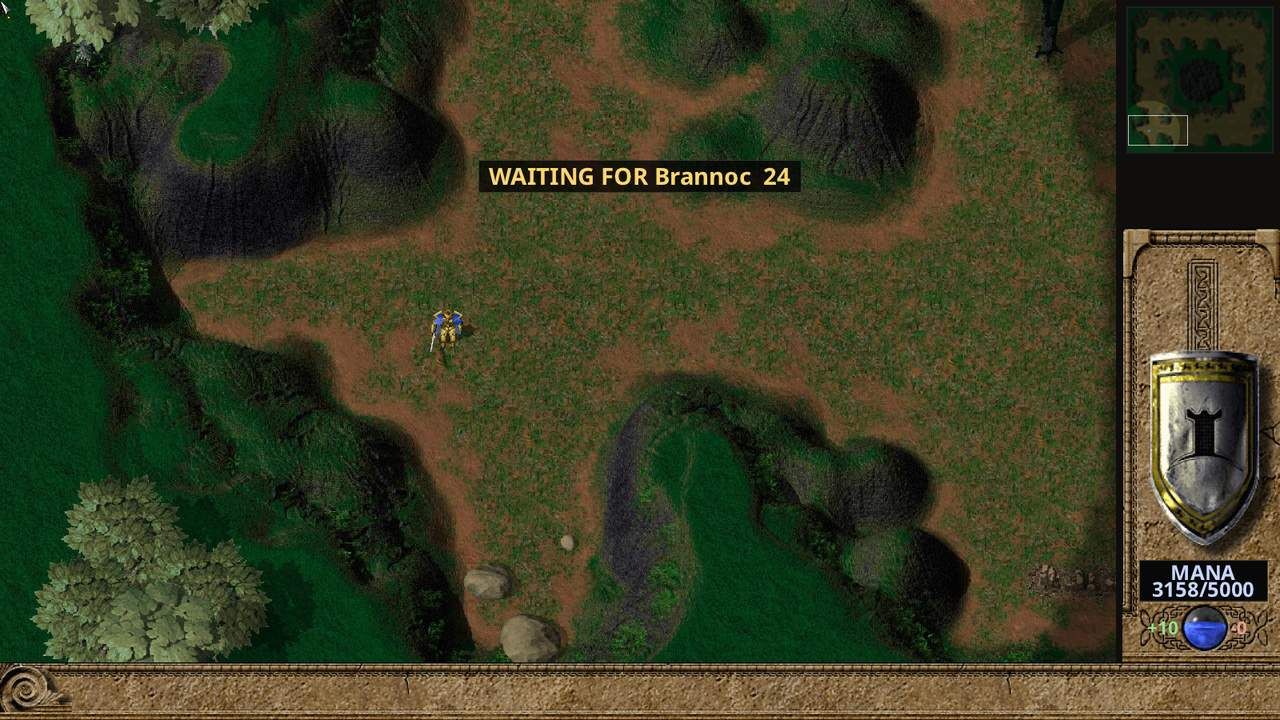
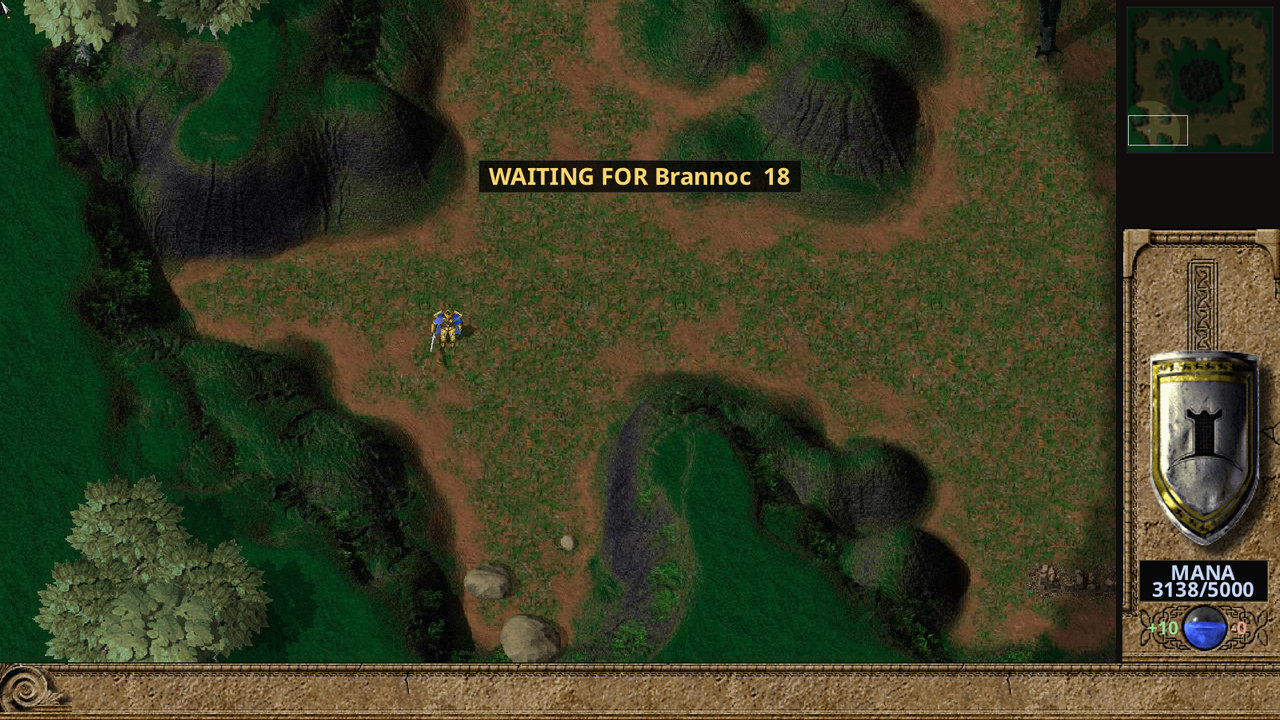
Docs: 0.8.10 screenshots (title, streaming panel, disconnect wait)
title.jpg shows VERSION 0.8.10; streaming.jpg shows the new SAVE A LOCAL
COPY row (off, no key); guide/disconnect-wait.jpg is retaken at the
default 8 s stall threshold after the last-contact budget rule (banner
reads 18, about 4 s after it appeared at 22), with the guide caption and
alt text to match. README alt text and gallery footnote name 0.8.10;
docs/img/README.md records the retakes and adds the disconnect-wait row.

Claude-Session: https://claude.ai/code/session_01NfQnyMZiQLqDRRnw4HG4by

diff --git a/docs/img/README.md b/docs/img/README.md
@@ -1,18 +1,27 @@
 # README and user-guide screenshots
 
-Refreshed on 2026-10-21 for **0.8.9**. 0.8.9 changed the create screen's option
+Refreshed on 2026-10-22 for **0.8.10**. 0.8.10 added the **SAVE A LOCAL COPY**
+row to the YouTube Streaming panel and changed the disconnect wait (each seat has
+one 30 s budget per game, counted from the player's last contact, so a first stop
+shows 22 when the banner appears). The 0.8.10 build (version set to 0.8.10
+locally, ahead of the release commit; no capture patch was needed) retook
+`title.jpg` (VERSION 0.8.10), `streaming.jpg` and `guide/disconnect-wait.jpg`.
+No other picture shows what 0.8.10 changed: the campaign pictures show chapter 1,
+whose human player was already Player1, and the Cartographer Test Map fix is in
+the macOS app bundle only. Every other picture keeps the release named below.
+
+0.8.9 changed the create screen's option
 column (one button width and one label size), the room's rules (MAP SCENARIO is
 a normal rules line; GAME MODS VERIFIED shows only when game packs are in play)
 and the in-game chat box (always above the build row and its TRAINING or status
 line), and added Shift-drag build lines with a wheel-set gap. The 0.8.9 build
 (version set to 0.8.9 locally, ahead of the release commit) retook every picture
-that shows them: `title.jpg` (VERSION 0.8.9), `lobby.jpg`, `lobby-scenario.jpg`,
+that shows them: `title.jpg` (since retaken for 0.8.10), `lobby.jpg`, `lobby-scenario.jpg`,
 `room.jpg`, `cartographer/test-lobby.jpg`, `guide/random-map-lobby.jpg`,
 `guide/room-mods-power-codes.jpg` and `guide/chat-box.jpg`, and added
 `guide/build-line.jpg`. `diplomacy.jpg`, `guide/options-interface.jpg` and
 `guide/options-graphics.jpg` were re-rendered and compared with their 0.8.8
-captures: nothing they show changed, so they stay the 0.8.8 files. Every other
-picture keeps the release named below.
+captures: nothing they show changed, so they stay the 0.8.8 files.
 
 Every image below is actual engine output from a release-preparation build
 (Debug with `-O2`, OpenGL renderer) and was inspected by eye. 0.8.8 draws all plain interface text in Noto Sans Bold
@@ -100,7 +109,7 @@ simulation code. Every scene runs the normal game rules, AI and renderer.
 
 | Image | Scene |
 | --- | --- |
-| `title.jpg` | Title menu showing version 0.8.9 (0.8.9 build), 1920 × 1080 window cropped to the 1440 × 1080 artwork |
+| `title.jpg` | Title menu showing version 0.8.10 (0.8.10 build), 1920 × 1080 window cropped to the 1440 × 1080 artwork |
 | `battle.jpg` | **Benchmark** run (Settings → Benchmark, Absurd intensity) on Ulasem Arena, 55 game seconds in. Eight server AIs fight, all five sides. The camera, at 1.3× zoom, shows Aramon (magenta) and Taros (yellow) armies, with Black Dragons, clashing at a sandy arena; damaged units of every side show health bars. A real feature with no fixture; spectator view, so no fog. Rendered by the 0.8.8 build |
 | `dragons.jpg` | **Development scene.** Five server AIs, one per side, from a stress-test start (300-unit cap) with gods on, 90 game seconds in. Creon Neo Dragons breathe fire on an Aramon siege column; health bars show for every side. Spectator view, 1.4× zoom. Rendered by the 0.8.8 build |
 | `flyers.jpg` | **Development scene, spawned.** Legion pathfinding, 22 s after one move order east-south-east. A 44-unit Zhon formation: Trolls, Stone Giants and Jungle Orcs, with Gryphons, Harpies and Drakes holding rows of stations over the front of the ground (new in 0.8.0, protocol 254; before, over its middle). `1F`, solid green, marks members of formation 1. Nothing is selected, so the information bar is empty (0.8.1). Fog off, 1.45× zoom. Rendered by the 0.8.8 build (protocol 288) |
@@ -112,7 +121,7 @@ simulation code. Every scene runs the normal game rules, AI and renderer.
 | `room.jpg` | Single-player room on Ulasem Arena with three Normal AIs (Taros, Veruna, Zhon) added by clicks, Crusades and Double Sight on, Legion pathfinding and both example cosmetic packs ticked (empty folders in the scratch install); under the COSMETIC MODS heading ALWAYS ON: click.hpi, then the pack names at the column's text size, the GAME MODS list below (no game pack ticked, so no GAME MODS VERIFIED line, new in 0.8.9). The open rows 5 to 8 each have a **MOVE HERE** button. The match rules end with MAP SCENARIO: OFF at the others' size (0.8.9). The map at the top of the right column marks starts 1 to 4 in the colours of the four seated players. The AI names are the lobby's own random picks. Rendered by the 0.8.9 build, 1600 × 1000; the CREATE screen's toggles, slot types, sides and pack boxes were clicked with `TAK_SHOT_CLICKS`, then the pointer moved off the panel |
 | `campaign.jpg` | Book of Darien campaign picker with a fresh profile, chapter 1. The CHAPTER heading and numeral are retail lettering in both UI fonts; the chapter title and the always-on mods note (click.hpi, in dark ink on the parchment) are in the UI font. Rendered by the 0.8.8 build, 1600 × 1000, with `TAK_SHOT_CAMPAIGN=0` |
 | `crusades.jpg` | Imported Darien Crusades definition (`crusades_import` from the retail `Darien.def`) on an authenticated local server, account *Gallery*; Torcairn selected in the territory list after joining Honor, so the territory panel lists its details and the map marks it. No authored battle maps or ownership. Rendered by the 0.8.8 build, 1600 × 1000 |
-| `streaming.jpg` | Streaming setup with no key or broadcast, showing the **Remember Key** row (off; the Secret Service is available). Rendered by the 0.8.8 build at 1600 × 1000, with the debug `TAK_CREDSTORE=test` store so no real key could appear |
+| `streaming.jpg` | Streaming setup with no key or broadcast, showing the **Remember Key** row (off; the Secret Service is available) and the **Save a Local Copy** row (off, the default; MP4 IN THE VIDEOS FOLDER), new in 0.8.10. Rendered by the 0.8.10 build at 1600 × 1000, with the debug `TAK_CREDSTORE=test` store so no real key could appear |
 | `diplomacy.jpg` | Built-in input-test fixture (the debug `TAK_DIPLOMACY_TEST` harness, `--testbuild`) after gifting, 1600 × 1000, in a profile with voice chat on. The VOICE column ticks every other player (your own box is shown, greyed); VOLUME has sliders for the two other humans, left by the fixture at 50% (ALLY) and 25% (DEFEATED), and none for the computer player (ENEMY). Elsin stays selected, so the bar shows her portrait, name and health and mana only. Rendered by the 0.8.8 build |
 | `results.jpg` | Built-in five-player **sample statistics** (`TAK_SHOT_RESULT`), not a finished match. Rendered by the 0.8.8 build |
 | `cartographer.png` | Cartographer Units tab on Ulasem Arena, from the 0.8.3 build: the toolbar has five tools (BLOCKED is new) and the browser a scrollbar. A fresh editor profile, `--shot --shot-tool units`, 30% zoom |
@@ -145,6 +154,7 @@ replace them. The unchanged views contain no version text.
 | `options-interface.jpg` | New in 0.8.8. Options screen in a 1600 × 1100 window scrolled to the Interface section, cropped to it: UI FONT MODERN, F4 SCORECARD SCALE and UI SCALE 100%, HEALTH BARS DAMAGED, STATS PANEL ON, BUILD MENU CENTER, BUILD MENU SCALE 100%, CHAT POSITION CENTERED and CHAT SCALE 100%; a fresh profile, all defaults |
 | `room-mods-power-codes.jpg` | Recaptured by the 0.8.9 build. Single-player room on Ulasem Arena, 1600 × 1000: POWER CODES clicked on in the create screen, two Normal AIs; under the COSMETIC MODS heading ALWAYS ON: click.hpi, then the packs at the column's text size (Classic Sounds ticked, Alternate Cursors not) and the GAME MODS list (Big Battles ticked, so GAME MODS VERIFIED shows); the match rules read POWER CODES: ON, and MAP SCENARIO: OFF is a rules line at the others' size. Clicked with `TAK_SHOT_CLICKS` |
 | `build-line.jpg` | New in 0.8.9. A Shift-drag wall line in progress: the committed debug `TAK_BUILDLINE_SHOT=560,0,2` fixture (`--testbuild`, Ulasem Arena) selects Elsin, chooses the Aramon wall, holds Shift, presses the left button, drags 560 px east and turns the mouse wheel up two notches, so the preview shows nine wall sites two cells apart and the **GAP 2** label by the pointer. 1.5× zoom, fog off; 1600 × 900, scaled |
+| `disconnect-wait.jpg` | Recaptured by the 0.8.10 build (first taken during 0.8.10 development). Two humans on Inner Circle through a local `takserver --local --no-auth --seed 1` at the default 8 s stall threshold (data: a copy of the retail archives); the second client (Brannoc, headless) was stopped with `SIGSTOP` 40 s in, and the first (Aldric, 1600 × 900, scaled) was captured about 4 s after the banner appeared: the game is paused and reads WAITING FOR Brannoc 18 (a first stop's countdown starts at 22, as the 8 silent seconds are already spent). Nothing is selected. Capture script `~/tak-tmp/scratch/release-0810/shots/dw.sh` |
 
 The guide also uses `title.jpg`, `lobby.jpg`, `room.jpg`, `campaign.jpg`,
 `diplomacy.jpg`, `generated.jpg` and `cartographer.png` from the gallery, and
@@ -299,7 +309,7 @@ Capture scripts, job lists and the encoder are in the release-preparation
 scratch directories, `$SCR/shared/release-0.7.26/shots`,
 `$SCR/shared/release-0.7.27/shots`, `$SCR/shared/release-0.7.28/shots`,
 `$SCR/shared/release-0.8.0/shots`, `$SCR/shared/release-0.8.1/shots`,
-`$SCR/shared/release-0.8.2/shots`, `$SCR/shared/release-0.8.3/shots`, `$SCR/shared/release-0.8.4/shots`, `~/tak-tmp/scratch/release-085/shots`, `~/tak-tmp/scratch/release-086/shots`, `~/tak-tmp/scratch/release-087/shots`, `~/tak-tmp/scratch/release-088/shots` and `~/tak-tmp/scratch/release-089/shots`. Raw PNGs, logs, profiles
+`$SCR/shared/release-0.8.2/shots`, `$SCR/shared/release-0.8.3/shots`, `$SCR/shared/release-0.8.4/shots`, `~/tak-tmp/scratch/release-085/shots`, `~/tak-tmp/scratch/release-086/shots`, `~/tak-tmp/scratch/release-087/shots`, `~/tak-tmp/scratch/release-088/shots`, `~/tak-tmp/scratch/release-089/shots` and `~/tak-tmp/scratch/release-0810/shots`. Raw PNGs, logs, profiles
 and the SHA-256 manifest are kept locally in the worktree's ignored
 `build-o2/capture` folder. Keep retail archives, extracted assets and temporary
 capture files out of Git. When refreshing, rerender and inspect every view, then

diff --git a/README.md b/README.md
@@ -12,7 +12,7 @@ A clean-room C++20 / SDL2 recreation of Cavedog's 1999 fantasy RTS.
 
 [Download](https://github.com/pocketgeek/tak-engine/releases/latest) · [Getting started](#getting-started) · [Quick-start controls](docs/quick-start.md) · [User guide](docs/user-guide.md) · [Map editor guide](docs/cartographer-guide.md) · [Build from source](docs/development.md)
 
-<a href="docs/img/title.jpg"><img src="docs/img/title.jpg" width="72%" alt="TAK Engine title screen with its three doors and version 0.8.9"></a>
+<a href="docs/img/title.jpg"><img src="docs/img/title.jpg" width="72%" alt="TAK Engine title screen with its three doors and version 0.8.10"></a>
 
 <table>
   <tr>
@@ -35,12 +35,12 @@ A clean-room C++20 / SDL2 recreation of Cavedog's 1999 fantasy RTS.
     <td width="50%"><a href="docs/img/campaign.jpg"><img src="docs/img/campaign.jpg" alt="The Book of Darien campaign mission picker"></a><br><sub>Campaign selection</sub></td>
   </tr>
   <tr>
-    <td width="50%"><a href="docs/img/streaming.jpg"><img src="docs/img/streaming.jpg" alt="YouTube streaming panel with Max 3840 and 60 FPS selected"></a><br><sub>Built-in YouTube streaming</sub></td>
+    <td width="50%"><a href="docs/img/streaming.jpg"><img src="docs/img/streaming.jpg" alt="YouTube streaming panel with Max 3840 and 60 FPS selected and the Save a Local Copy box off"></a><br><sub>Built-in YouTube streaming</sub></td>
     <td width="50%"><a href="docs/img/results.jpg"><img src="docs/img/results.jpg" alt="Post-game statistics with faction emblems and player colors"></a><br><sub>Post-game statistics (sample data)</sub></td>
   </tr>
 </table>
 
-<sub>Captured from the 0.7.25 to 0.8.9 builds. The battle is a real benchmark run; dragon, flyer and naval views and the HUD's army are development scenes; results use sample statistics. See the <a href="docs/img/README.md">capture notes</a>.</sub>
+<sub>Captured from the 0.7.25 to 0.8.10 builds. The battle is a real benchmark run; dragon, flyer and naval views and the HUD's army are development scenes; results use sample statistics. See the <a href="docs/img/README.md">capture notes</a>.</sub>
 
 </div>
 

diff --git a/docs/user-guide.md b/docs/user-guide.md
@@ -1679,8 +1679,8 @@ for more than a second, everything past that first second comes off their 30
 nothing. Once a player's time is used up, the next time they hold the game up the
 computer player takes over at once, without pausing the game.
 
-![The game paused on Inner Circle with a dark banner near the top of the view reading WAITING FOR Brannoc 24 in gold letters, the minimap, mana bar and bottom bar in place around it](img/guide/disconnect-wait.jpg)
-*Another player has stopped responding: the game waits for Brannoc, with 24 seconds of his time left.*
+![The game paused on Inner Circle with a dark banner near the top of the view reading WAITING FOR Brannoc 18 in gold letters, the minimap, mana bar and bottom bar in place around it](img/guide/disconnect-wait.jpg)
+*Another player has stopped responding: the game waits for Brannoc, with 18 seconds of his time left.*
 
 - **Back in time:** if their game catches up again (a long freeze, a network
   hiccup) or reconnects, the countdown goes away and play goes on from where it
